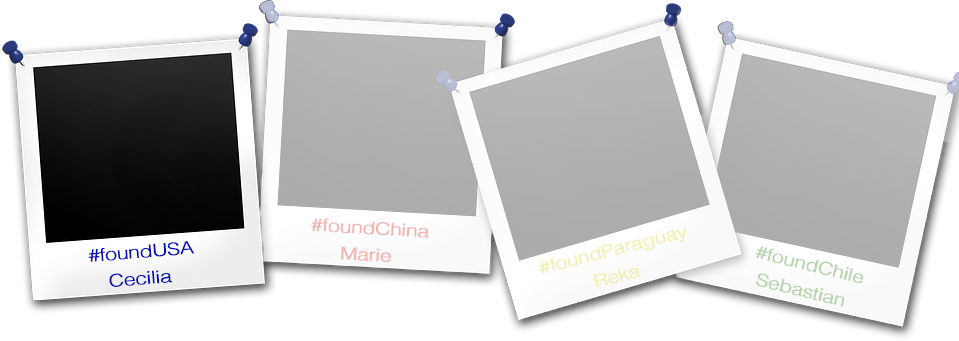
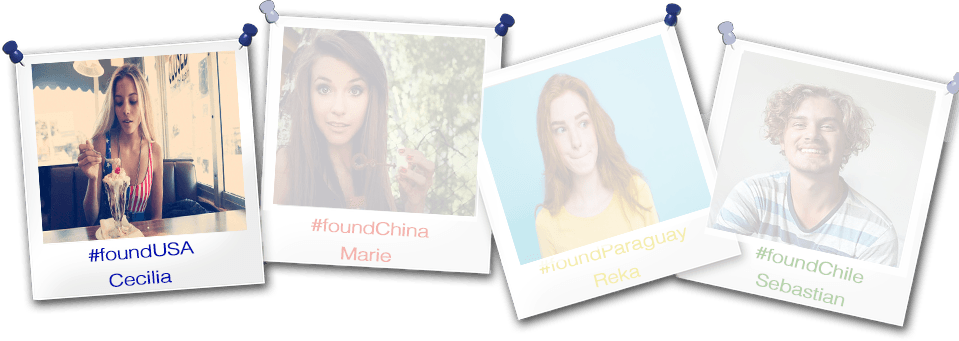
added json profile

diff --git a/map.js b/map.js
@@ -1,6 +1,6 @@
 /*header redirect*/
 
-$('header').on('click', ()=>{window.location.href = "index.html"})
+$('.logo').on('click', ()=>{window.location.href = "index.html"})
 
 
 /*burger menu*/
@@ -94,7 +94,7 @@ function goBack(){
 
 
                   myClone.querySelectorAll('.name').forEach( (name)=> {name.textContent = elem[0].country;})
-                 myClone.querySelector('.name').style.cssText = "color:" + elem[0].color + ";"
+                myClone.querySelector('.name').style.cssText = "color:" + elem[0].color + ";"
                 myClone.querySelector('h1').style.cssText = "color:" + elem[0].color + ";"
                 myClone.querySelector('.capital').textContent = elem[0].capital;
                 myClone.querySelector('.lan').textContent = elem[0].lan;
@@ -102,34 +102,17 @@ function goBack(){
                 myClone.querySelector('.foody').textContent = elem[0].foody;
                 myClone.querySelector('.quote').textContent = elem[0].quote;
                 myClone.querySelector('.intro').textContent = elem[0].intro;
+                myClone.querySelector('.main').style.cssText = "background-image:url(" + elem[0].left+");";
+                myClone.querySelector('.top').style.cssText = "background-image:url(" + elem[0].top+");";
+                myClone.querySelector('.bottom').style.cssText = "background-image:url(" + elem[0].bottom +");";
+                myClone.querySelector('.right').style.cssText = "background-image: url(" + elem[0].right + ");";
+                myClone.querySelector('.left').style.cssText = "background-image: url(" + elem[0].main + ");";
                 myClone.querySelectorAll('.ambassador').forEach((amb) => {
                     amb.textContent = elem[0].ambassador;})
-             /*   elem[0].monthPost.forEach((p) => {
-                let instaLink = document.createElement('a');
-                let instaImg = document.createElement('img');
 
-                    instaLink.setAttribute("href" , "" +elem[0].instaLink+"");
-                    instaLink.classList.add("instaLink");
-                    instaImg.setAttribute("src", p);
-                    instaImg.classList.add('instaImg');
-
-                            const appendPost = myClone.querySelector('.posts')
-        appendPost.appendChild(instaLink);
-        instaLink.appendChild(instaImg);
-
-
-
-                })*/
                      const appendT = document.querySelector('.append');
 
                 appendT.appendChild(myClone);
             }}})
-    /*video handling*/
 
-
-
-/*burger menu*/
-
-$('.burger').on('click', ()=>{  window.location.href = "burger.html"
-})
 

diff --git a/style.css b/style.css
@@ -503,50 +503,73 @@ div.visible {
         position: relative;
     }
 
-    .top {
-        background-color: red;
-        height: 30vh;
+    .top
+    {   height: 30vh;
+          background-repeat: no-repeat;
+        background-size: cover;
+        background-position: center;
         width: 25vw;
         position: absolute;
         top: 1vh;
         left: 37.5vw;
+        z-index:1;
+        transition:all 1s ease;
     }
 
+    .top:hover {z-index:3;}
+
     .bottom {
-        background-color: blue;
+        background-repeat: no-repeat;
+        background-size: cover;
+        background-position: center;
         height: 30vh;
         width: 25vw;
         position: absolute;
         bottom:1vh;
         left:37.5vw;
+        z-index:1;
 
     }
+       .bottom:hover {z-index:3;}
 
     .right {
-        background-color: yellow;
+          background-repeat: no-repeat;
+        background-size: cover;
+        background-position: center;
         height: 30vh;
         width: 25vw;
         position: absolute;
         right:18vw;
         bottom:25vh;
+                z-index:1;
     }
+    .right:hover {z-index:3;}
 
     .left {
-        background-color: green;
+        background-repeat: no-repeat;
+        background-size: cover;
+        background-position: center;
         height: 30vh;
         width: 20vw;
         position: absolute;
         left:18vw;
         top:25vh;
+                z-index:1;
+
     }
+    .left:hover {z-index:3;}
 
     .main {
-        background-color: black;
+        background-repeat: no-repeat;
+        background-size: cover;
+        background-position: center;
         height: 50vh;
         width: 40vw;
         position: absolute;
         left: 30vw;
         top: 15vh;
+                z-index:2;
+
     }
 
 

diff --git a/burger.html b/burger.html
@@ -13,6 +13,7 @@
         <img class="burger" src="images/Menu.png" alt="burger menu">
     </header>
     <div></div><div class="dest">
+        <div class="destination home"><p>HOME</p></div>
         <div class="destination usas"><p>USA</p></div>
         <div class="destination china"><p>CHINA</p></div>
         <div class="destination paraguay"><p>PARAGUAY</p></div>
